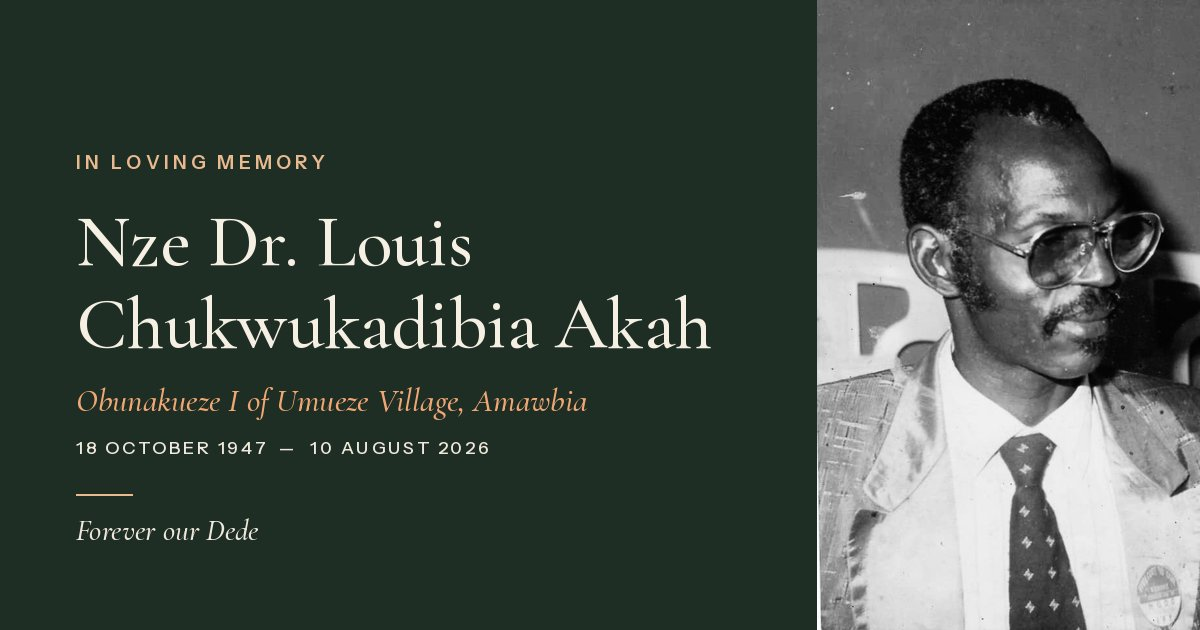
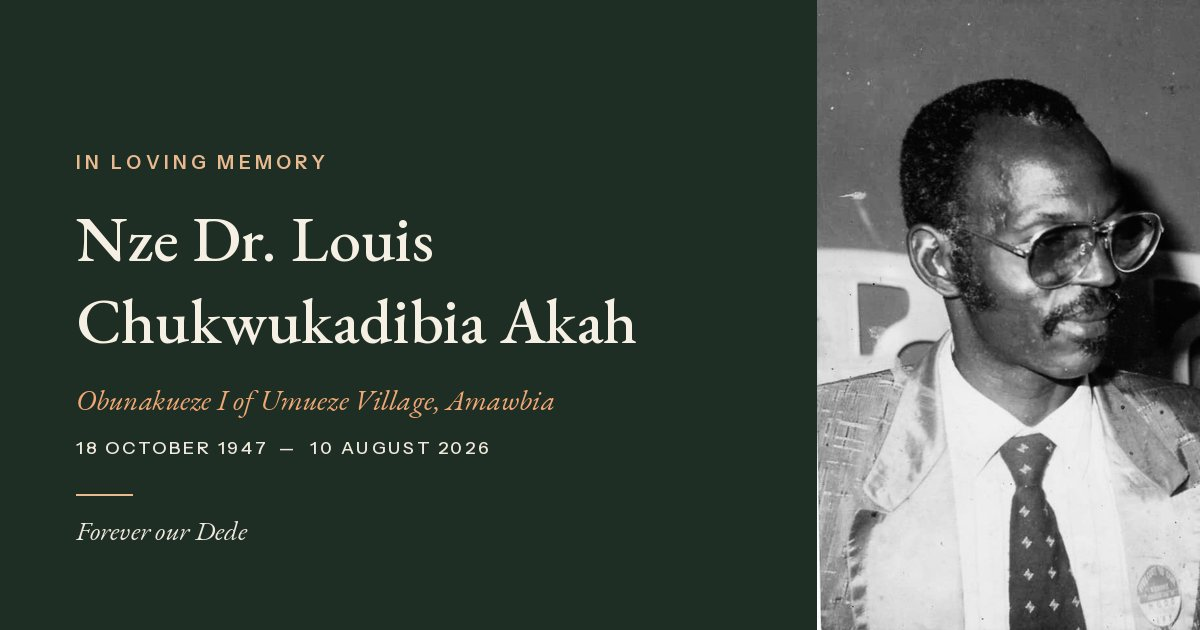
Set the site and share image in EB Garamond
Claude-Session: https://claude.ai/code/session_01LGzrqFLcBAazJXd7zdtGxT

diff --git a/public/index.html b/public/index.html
@@ -9,7 +9,7 @@
 <meta property="og:title" content="In loving memory of Nze Dr. Louis Chukwukadibia Akah · 1947–2026">
 <meta property="og:description" content="A doctor who healed, a son of Amawbia who served, and a father who always made time. Remember Dede with us: read his story, walk through his life in pictures, and leave a rose.">
 <link rel="preload" href="photos/cover.jpg" as="image" fetchpriority="high">
-<meta property="og:image" content="https://louis-akah.pages.dev/photos/share.jpg?v=c608cf33">
+<meta property="og:image" content="https://louis-akah.pages.dev/photos/share.jpg?v=f5b1845c">
 <meta property="og:image:width" content="1200">
 <meta property="og:image:height" content="630">
 <meta property="og:image:alt" content="A black-and-white portrait of Nze Dr. Louis Chukwukadibia Akah in his aviator glasses, beside his name and the years 1947 to 2026.">
@@ -21,7 +21,7 @@
 <link rel="preconnect" href="https://fonts.googleapis.com">
 <link rel="preconnect" href="https://fonts.gstatic.com" crossorigin>
 <link rel="stylesheet" href="https://fonts.googleapis.com/css2?family=Literata:opsz,wght@7..72,500&text=0123456789%E2%80%93%E2%80%94&display=swap">
-<link rel="stylesheet" href="https://fonts.googleapis.com/css2?family=Cormorant+Garamond:ital,wght@0,400;0,500;0,600;1,400;1,500;1,600&family=Newsreader:ital,opsz,wght@0,6..72,400;0,6..72,500;1,6..72,400;1,6..72,500&family=Cedarville+Cursive&family=Instrument+Sans:wght@400;500;600&display=swap">
+<link rel="stylesheet" href="https://fonts.googleapis.com/css2?family=EB+Garamond:ital,wght@0,400;0,500;0,600;1,400;1,500;1,600&family=Cedarville+Cursive&family=Instrument+Sans:wght@400;500;600&display=swap">
 <style>
 /* Layout: one family album. Cloth boards front and back; every leaf inside is the same ivory paper with the same anatomy:
    running head, a margin column (photos, notes, captions) and a main column (text), folio at the foot.
@@ -1393,8 +1393,8 @@ h2 em,.wr-head h2 em,.wr-thanks h2 em{color:#c8541c}
 .sheet.board.front-cover{background-color:#984a24}
 .sheet.board.back-cover{background-color:#934823}
 
-/* ---------- type trial: Cormorant Garamond for titles, Newsreader for reading ---------- */
-:root{--serif:'Newsreader','EB Garamond',Georgia,serif; --display:'Cormorant Garamond','EB Garamond',Georgia,serif}
+/* ---------- type: EB Garamond for titles and reading ---------- */
+:root{--serif:'EB Garamond','Apple Garamond',Garamond,Georgia,serif; --display:'EB Garamond','Apple Garamond',Garamond,Georgia,serif}
 h1,h2,h3,.ld-ig,.garden .count b,.day .date,.bc-verse,.back-verse,.daalu,.fc-years{font-family:var(--display)}
 h1,h2,.ld-ig,.day .date{font-weight:500}
 h2,.wr-head h2,.wr-thanks h2{font-size:calc(var(--fs-display) * 1.1)}
@@ -1402,35 +1402,35 @@ h2,.wr-head h2,.wr-thanks h2{font-size:calc(var(--fs-display) * 1.1)}
 @media (max-width:700px){ .front-cover h1{font-size:clamp(29px,8vw,38px)} }
 .front-cover h1{font-weight:600}
 .fc-years{font-variant-numeric:lining-nums; font-weight:500}
-body{font-optical-sizing:auto; letter-spacing:-.006em}
-h1,h2,h3,.ld-ig,.garden .count b,.day .date{letter-spacing:-.022em}
+body{letter-spacing:0}
+h1,h2,h3,.ld-ig,.garden .count b,.day .date{letter-spacing:-.012em}
 
 /* =====================================================================
    TEXT STYLE SYSTEM  (every piece of text uses exactly one of these)
    ---------------------------------------------------------------------
    Role          Font                 Desktop / Phone   Weight  Line   Colour
-   Display       Cormorant Garamond   78 / 48           500     1.1    ink; one italic word in accent orange
-   Cover name    Cormorant Garamond   90 / 44           600     1.1    cream on the cover
-   Title         Cormorant Garamond   32 / 26           500     1.25   ink (the funeral day in green)
+   Display       EB Garamond          78 / 48           500     1.1    ink; one italic word in accent orange
+   Cover name    EB Garamond          90 / 44           600     1.1    cream on the cover
+   Title         EB Garamond          32 / 26           500     1.25   ink (the funeral day in green)
    Year          Literata (numerals)  26 / 22           500     1.25   green when current, quiet grey otherwise
-   Lead          Newsreader           22 / 20           400     1.6    ink-2  (only the sentence under a section title)
-   Body          Newsreader           19 / 17.5         400     1.75   ink    (every paragraph, first one included)
-   Body strong   Newsreader           19 / 17.5         500     1.45   ink    (event names, names in the register)
-   Small         Newsreader           16 / 15           400     1.6    ink for facts, ink-2 for details under a heading
+   Lead          EB Garamond          22 / 20           400     1.6    ink-2  (only the sentence under a section title)
+   Body          EB Garamond          19 / 17.5         400     1.75   ink    (every paragraph, first one included)
+   Body strong   EB Garamond          19 / 17.5         500     1.45   ink    (event names, names in the register)
+   Small         EB Garamond          16 / 15           400     1.6    ink for facts, ink-2 for details under a heading
    Label         Instrument Sans      11, caps, .2em    600     1.5    ink-2; green when it marks an action; rose on roses
    Meta          Instrument Sans      13, .02em         500     1.6    ink-2; green for links
    Button        Instrument Sans      15                500     1      set by the button
    Signature     Cedarville Cursive   22 / 20           400     1.6    pen blue
    Two one-off sizes, each used in a single place:
-   Saying        Cormorant Garamond   52 / 32           500     1.15   the loader's Igbo line (its meaning underneath is Lead)
-   Count         Cormorant Garamond   130 / 76          400     1      the number of roses on the roses page
+   Saying        EB Garamond          52 / 32           500     1.15   the loader's Igbo line (its meaning underneath is Lead)
+   Count         EB Garamond          130 / 76          400     1      the number of roses on the roses page
    ---------------------------------------------------------------------
    Colour rules: ink #241e1b for reading; ink-2 #6a5f58 for secondary text;
    orange #9c4317 only for the italic word in a title; green #41604a for anything
    you can press or that marks "now"; rose only for roses; cream and gold only on
    the covers and on photographs.
    ===================================================================== */
-:root{--year:'Literata','Newsreader',Georgia,serif}
+:root{--year:'Literata','EB Garamond',Georgia,serif}
 
 /* Lead: only the sentence under a section title */
 .intro,.garden-intro,.wr-intro{font-family:var(--serif); font-size:var(--fs-lead) !important; line-height:1.6 !important; font-weight:400}
